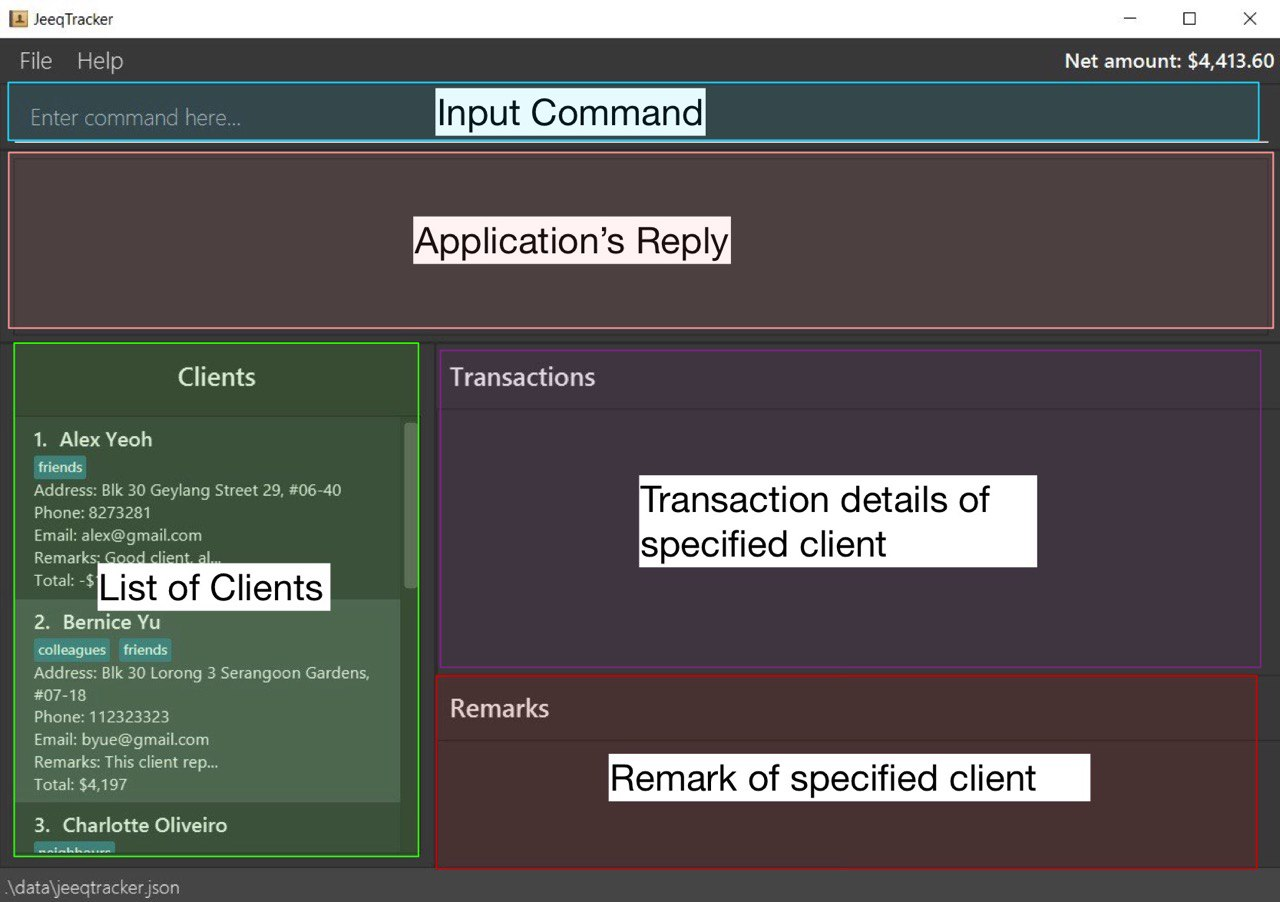
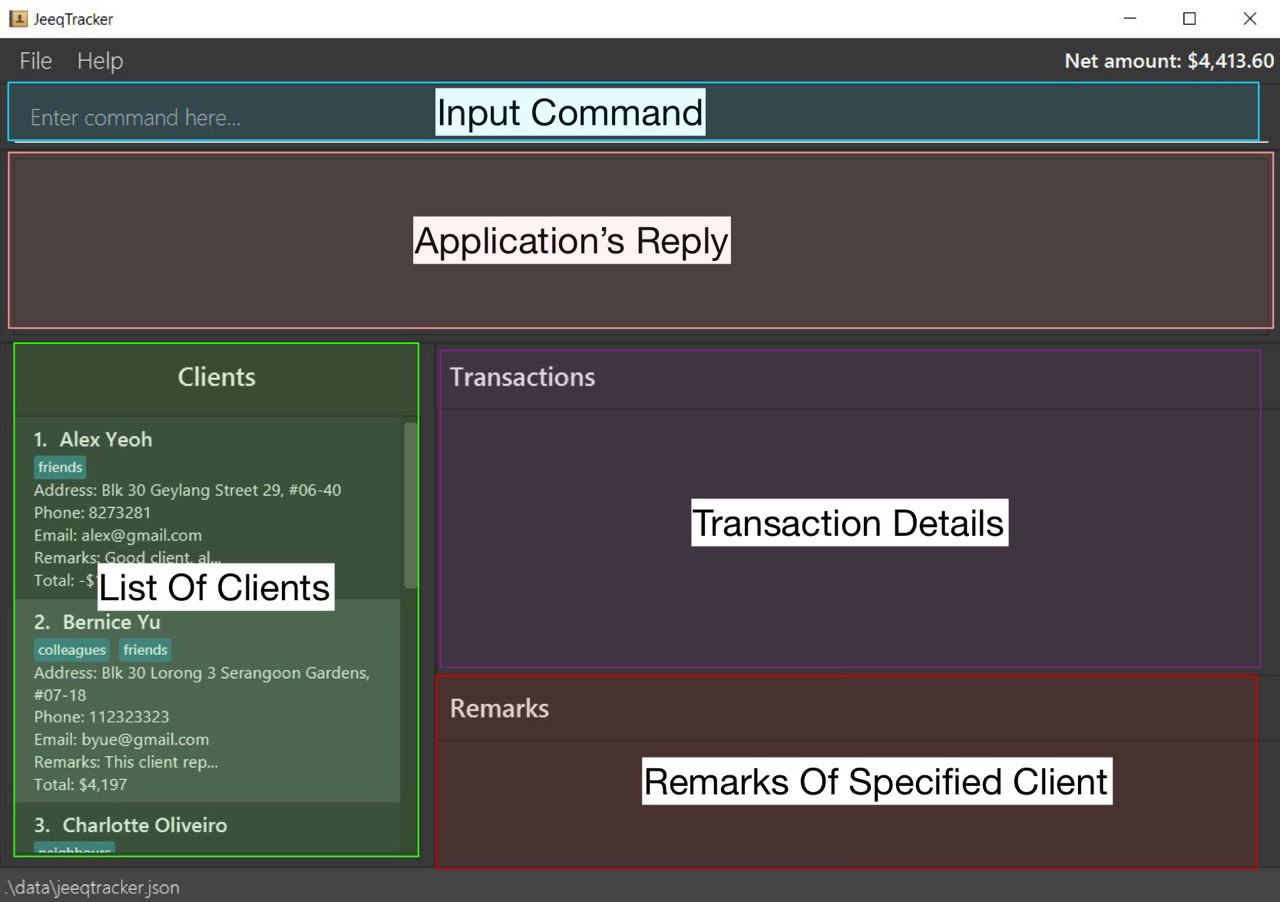
Update UserGuide.md

Changed region(s): [[0.5, 0.5277, 0.8125, 0.6519], [0.4688, 0.8071, 0.875, 0.9002], [0.125, 0.6208, 0.2812, 0.6829]]

diff --git a/docs/UserGuide.md b/docs/UserGuide.md
@@ -14,10 +14,13 @@ interactions recorded faster and simpler than traditional GUI applications.
 
 To get you started, you might want to read the section on [how to use this User Guide](#how-to-use-the-user-guide)!
 
+The overview of the application's user interface can be found [here](#user-interface-overview).
+
 ## Table of Contents
 
 * [Quick Start](#quick-start)
 * [How to use the User Guide](#how-to-use-the-user-guide)
+* [User Interface Overview](#user-interface-overview)
 * [Features](#features)
   * [Client Commands]()
     * [Adding a client: `add`](#adding-a-client-add)
@@ -57,9 +60,9 @@ To get you started, you might want to read the section on [how to use this User 
 This application UI is split into `5 sections`. 
 * `Input Command`: This is where you should key in your commands, and press enter to execute
 * `Application's Reply`: Errors or success messages will appear here after you execute any commands
-* `List of Clients`: Every client that you have will appear here
-* `List of Transactions`: Transactions with a specific client will appear here if you use the [view command](#viewing-a-client--view), or it will show all transactions with every client if you use the [filter command](#filtering-the-transaction-display--filter)
-* `Remarks of specified client`: Remarks of specified client will appear here
+* `List Of Clients`: Every client that you have will appear here
+* `Transaction details`: A list of transactions with a specific client will appear here if you use the [view command](#viewing-a-client--view), or it will show all transactions with every client if you use the [filter command](#filtering-the-transaction-display--filter)
+* `Remarks Of Specified Client`: Remarks of specified client will appear here
 
 ## Quick start
 
@@ -95,7 +98,8 @@ This application UI is split into `5 sections`.
 
 ## How to use the User Guide
 
-This user guide contains detailed explanation on how to use the application. It provides information like what each `command` does, warnings for certain commands, and how data is saved in the application.
+This user guide contains detailed explanation on how to use the application. It provides information like what each `command` does, **warnings** for certain commands, and how data is saved in the application.
+
 The [table of contents](#table-of-contents) provides links to every command. But before you head there, below are some notes on how to interpret each command format.
 
 <div markdown="block" class="alert alert-info">
@@ -121,6 +125,17 @@ The [table of contents](#table-of-contents) provides links to every command. But
   e.g. if the command specifies `list 123`, it will be interpreted as `list`.
 
 </div>
+
+### Symbols
+
+Below are some symbols that you may encounter in the User Guide.
+
+| Symbol                                                           | Meaning |
+|------------------------------------------------------------------|---------|
+| <div markdown="span" class="alert alert-danger">!</div>          | Warning |
+| <div markdown="span" class="alert alert-warning">:warning:</div> | Caution |
+
+[Back to Table of Contents](#table-of-contents)
 
 ## Features
 
@@ -157,13 +172,13 @@ Formats:
 
 Parameter constraints:
 
-| Parameter  | Constraints                                                                                                                                                                                                  |
-|:-----------|:-------------------------------------------------------------------------------------------------------------------------------------------------------------------------------------------------------------|
-| `INDEX`    | - Refers to the index number shown in the displayed client list. <br/> - **Must be a positive integer** e.g 1, 2, 3, … <br/>  **must not contain any signs** e.g +1, -3, …                                 |
-| `QUANTITY` | - Refers to the amount of the goods transacted. <br/> - should only contain non-negative unsigned integers and be at least 1 digit long.                                                                     |
-| `GOODS` | Refers to the name of the goods transacted. <br/> - Should only contain alphanumeric characters, and it should not be blank.                                                                                 |
-| `PRICE` | Refers to the price of the goods transacted. <br/> - Should be a positive number, and it should be at least 1 digit long.                                                                                    |
-| * The `DATE` | Refers to the date of the transaction. <br/> - Should only be in the format of DD/MM/YYYY. <br/> - If no `DATE` is entered, the default date will be the current date that the user enters the transaction.  |
+| Parameter    | Constraints                                                                                                                                                                                                 |
+|:-------------|:------------------------------------------------------------------------------------------------------------------------------------------------------------------------------------------------------------|
+| `INDEX`      | - Refers to the index number shown in the displayed client list. <br/> - **Must be a positive integer** e.g 1, 2, 3, … <br/>  **must not contain any signs** e.g +1, -3, …                                |
+| `QUANTITY`   | - Refers to the amount of the goods transacted. <br/> - should only contain non-negative unsigned integers and be at least 1 digit long.                                                                    |
+| `GOODS`      | Refers to the name of the goods transacted. <br/> - Should only contain alphanumeric characters, and it should not be blank.                                                                                |
+| `PRICE`      | Refers to the price of the goods transacted. <br/> - Should be a positive number, and it should be at least 1 digit long.                                                                                   |
+| * The `DATE` | Refers to the date of the transaction. <br/> - Should only be in the format of DD/MM/YYYY. <br/> - If no `DATE` is entered, the default date will be the current date that the user enters the transaction. |
   
 
 Examples:
